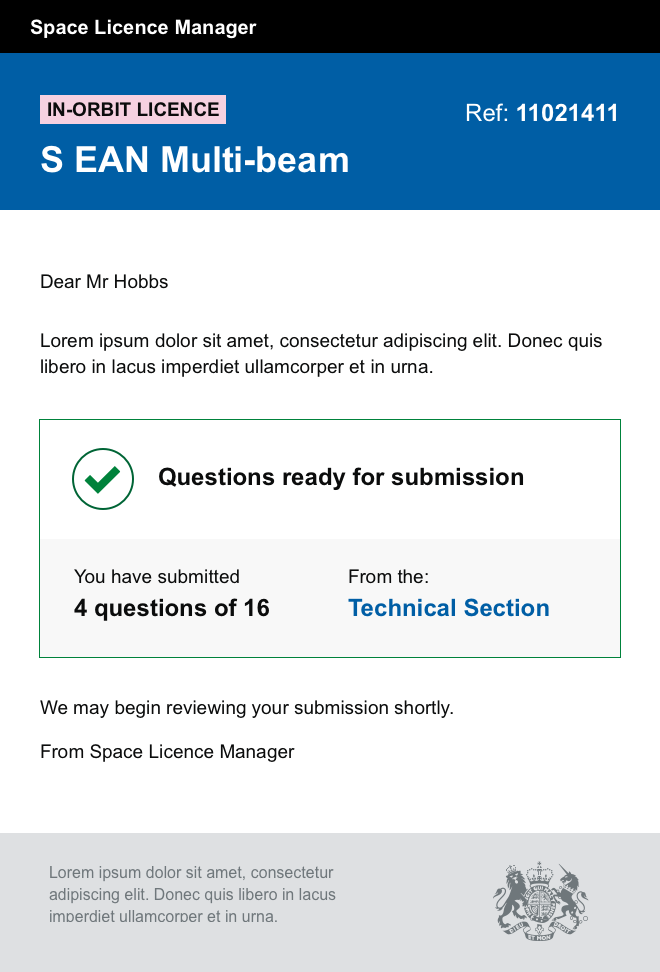
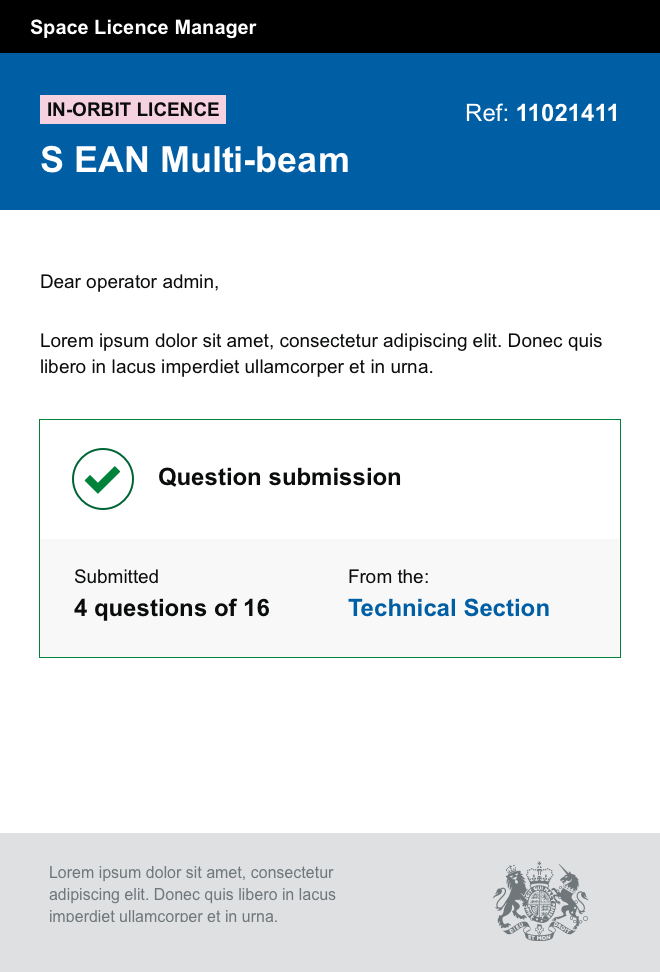
Many, many updates to text and routing

diff --git a/app/shared/routes.jsx b/app/shared/routes.jsx
@@ -89,6 +89,7 @@ let getRoutes = store => {
         <Route path='your-organisation' component={withFallback(PageContainer)} onEnter={getPage} slug='apply-your-organisation' />
         <Route path='confirmation' component={withFallback(PageContainer)} onEnter={getPage} slug='apply-confirmation' />
         <Route path='email-confirmation' component={withFallback(PageFlatImage)} onEnter={getPage} slug='apply-email-confirmation' />
+
       </Route>
       <Route path='operator'>
         <IndexRoute component={withFallback(PageContainer)} onEnter={getPage} slug='operator-overview'/>
@@ -106,6 +107,8 @@ let getRoutes = store => {
         <Route path='operator-overview-technical-draft' component={withFallback(PageContainer)} onEnter={getPage} slug='operator-overview-technical-draft' />
         <Route path='operator-overview-technical-ready-for-submission' component={withFallback(PageContainer)} onEnter={getPage} slug='operator-overview-technical-ready-for-submission' />
         <Route path='operator-overview-technical-submit' component={withFallback(PageContainer)} onEnter={getPage} slug='operator-overview-technical-submit' />
+        <Route path='email-submission-ready' component={withFallback(PageFlatImage)} onEnter={getPage} slug='email-submission-ready' />
+        {/*<Route path='operator-overview-ready-for-submission' component={withFallback(PageContainer)} onEnter={getPage} slug='operator-overview-ready-for-submission' />*/}
         <Route path='technical-eligibility-questions' component={withFallback(PageContainer)} onEnter={getPage} slug='technical-eligibility-questions' />
         <Route path='technical-draft' component={withFallback(PageGranularTwoColContainer)} onEnter={getPage} slug='operator-technical-questions-draft' />
         <Route path='technical' component={withFallback(PageGranularTwoColContainer)} onEnter={getPage} slug='operator-technical-questions' />
